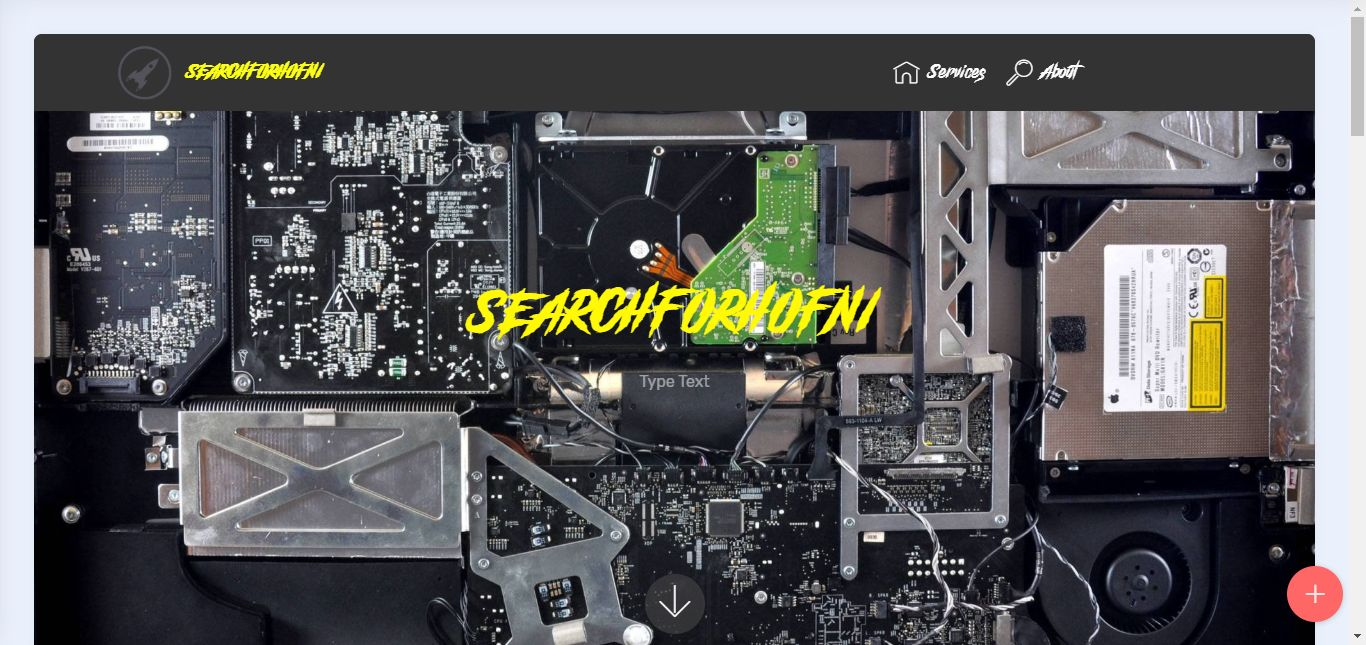
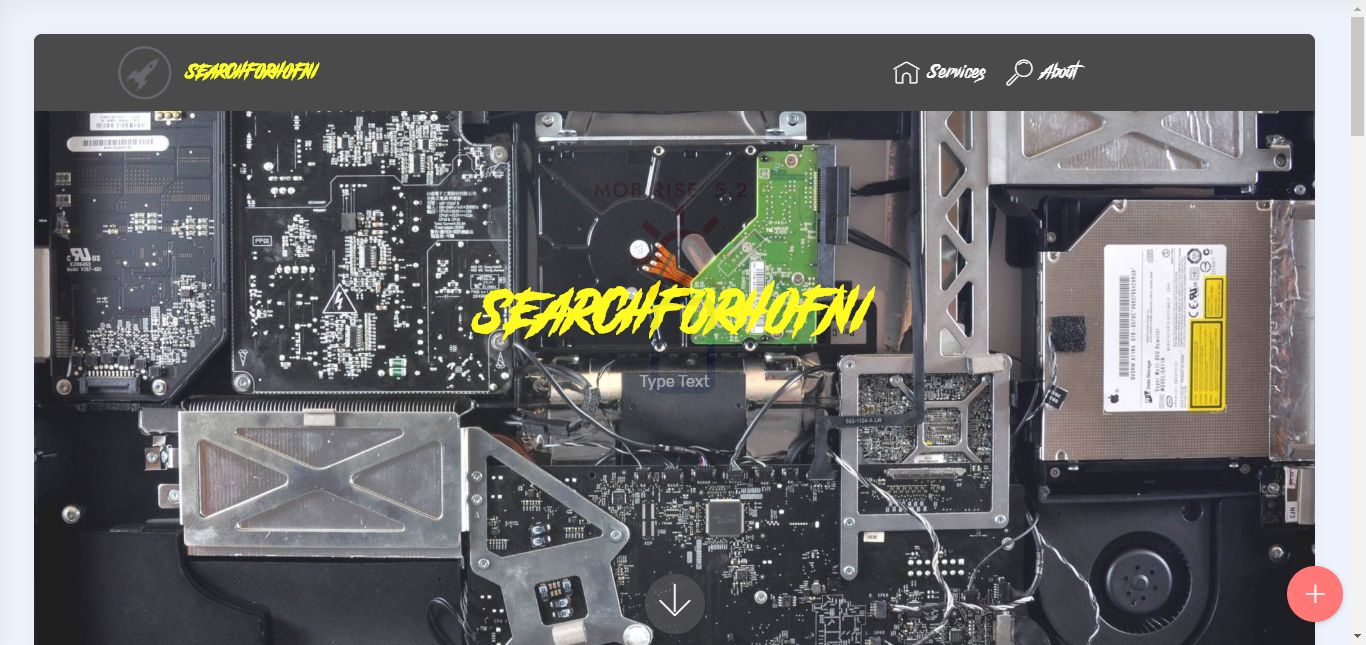
Add files via upload

diff --git a/searchforhofni.html b/searchforhofni.html
@@ -1,10 +1,10 @@
 <!DOCTYPE html>
 <html  >
 <head>
-  <!-- Site made with Mobirise Website Builder v4.12.4, https://mobirise.com -->
+  <!-- Site made with Mobirise Website Builder v5.2.0, https://mobirise.com -->
   <meta charset="UTF-8">
   <meta http-equiv="X-UA-Compatible" content="IE=edge">
-  <meta name="generator" content="Mobirise v4.12.4, mobirise.com">
+  <meta name="generator" content="Mobirise v5.2.0, mobirise.com">
   <meta name="viewport" content="width=device-width, initial-scale=1, minimum-scale=1">
   <link rel="shortcut icon" href="assets/images/mbr-1-122x122.png" type="image/x-icon">
   <meta name="description" content="Portfolio and Business site">
@@ -15,17 +15,21 @@
   <link rel="stylesheet" href="assets/bootstrap/css/bootstrap.min.css">
   <link rel="stylesheet" href="assets/bootstrap/css/bootstrap-grid.min.css">
   <link rel="stylesheet" href="assets/bootstrap/css/bootstrap-reboot.min.css">
-  <link rel="stylesheet" href="assets/socicon/css/styles.css">
   <link rel="stylesheet" href="assets/tether/tether.min.css">
-  <link rel="stylesheet" href="assets/as-pie-progress/css/progress.min.css">
   <link rel="stylesheet" href="assets/dropdown/css/style.css">
+  <link rel="stylesheet" href="assets/animatecss/animate.min.css">
+  <link rel="stylesheet" href="assets/as-pie-progress/css/progress.min.css">
+  <link rel="stylesheet" href="assets/socicon/css/styles.css">
   <link rel="stylesheet" href="assets/theme/css/style.css">
+  <link href="assets/fonts/style.css" rel="stylesheet">
   <link rel="preload" as="style" href="assets/mobirise/css/mbr-additional.css"><link rel="stylesheet" href="assets/mobirise/css/mbr-additional.css" type="text/css">
+  
   
   
   
 </head>
 <body>
+  
   <section class="menu cid-qTkzRZLJNu" once="menu" id="menu1-0">
 
     
@@ -66,7 +70,7 @@
     </nav>
 </section>
 
-<section class="engine"><a href="https://mobirise.info/b">create your own website</a></section><section class="cid-qTkA127IK8 mbr-fullscreen mbr-parallax-background" id="header2-1">
+<section class="cid-qTkA127IK8 mbr-fullscreen mbr-parallax-background" id="header2-1">
 
     
 
@@ -75,9 +79,9 @@
     <div class="container align-center">
         <div class="row justify-content-md-center">
             <div class="mbr-white col-md-10">
-                <h1 class="mbr-section-title mbr-bold pb-3 mbr-fonts-style display-2">SEARCHFORHOFNI<br><br></h1>
+                <h1 class="mbr-section-title mbr-bold pb-3 mbr-fonts-style display-2">SEARCHFORHOFNI</h1>
                 
-                <p class="mbr-text pb-3 mbr-fonts-style display-7">Hofni H Gideon &nbsp;better known as Searchforhofni .I'm a Computer Science student at the University of Namibia in Oshakati.I'm a Sole trader with a Computer repair business.<br><br>Do explore and Contact me.<br><br></p>
+                <p class="mbr-text pb-3 mbr-fonts-style display-7"></p>
                 
             </div>
         </div>
@@ -238,7 +242,7 @@
         <div class="media-container-row pt-5 mt-2">
             <div class="card p-3 align-center">
                 <div class="wrap">
-                    <div class="pie_progress progress1" role="progressbar" data-goal="45">
+                    <div class="pie_progress progress1" role="progressbar" data-goal="55">
                         <p class="pie_progress__number mbr-fonts-style display-5">27%</p>
                     </div>
                 </div> 
@@ -249,8 +253,8 @@
 
             <div class="card p-3 align-center">
                 <div class="wrap">
-                    <div class="pie_progress progress2" role="progressbar" data-goal="61">
-                        <p class="pie_progress__number mbr-fonts-style display-5">55%</p>
+                    <div class="pie_progress progress2" role="progressbar" data-goal="75">
+                        <p class="pie_progress__number mbr-fonts-style display-5">75%</p>
                     </div>
                 </div> 
                 <div class="mbr-crt-title pt-3">
@@ -366,21 +370,9 @@
             </div>
         </div>
     </div>
-</section>
-
-
-  <script src="assets/web/assets/jquery/jquery.min.js"></script>
-  <script src="assets/popper/popper.min.js"></script>
-  <script src="assets/bootstrap/js/bootstrap.min.js"></script>
-  <script src="assets/smoothscroll/smooth-scroll.js"></script>
-  <script src="assets/tether/tether.min.js"></script>
-  <script src="assets/touchswipe/jquery.touch-swipe.min.js"></script>
-  <script src="assets/parallax/jarallax.min.js"></script>
-  <script src="assets/as-pie-progress/jquery-as-pie-progress.min.js"></script>
-  <script src="assets/dropdown/js/nav-dropdown.js"></script>
-  <script src="assets/dropdown/js/navbar-dropdown.js"></script>
-  <script src="assets/theme/js/script.js"></script>
+</section><section style="background-color: #fff; font-family: -apple-system, BlinkMacSystemFont, 'Segoe UI', 'Roboto', 'Helvetica Neue', Arial, sans-serif; color:#aaa; font-size:12px; padding: 0; align-items: center; display: flex;"><a href="https://mobirise.site/y" style="flex: 1 1; height: 3rem; padding-left: 1rem;"></a><p style="flex: 0 0 auto; margin:0; padding-right:1rem;"><a href="https://mobirise.site/s" style="color:#aaa;">Website</a> was made with Mobirise web templates</p></section><script src="assets/web/assets/jquery/jquery.min.js"></script>  <script src="assets/popper/popper.min.js"></script>  <script src="assets/bootstrap/js/bootstrap.min.js"></script>  <script src="assets/tether/tether.min.js"></script>  <script src="assets/smoothscroll/smooth-scroll.js"></script>  <script src="assets/dropdown/js/nav-dropdown.js"></script>  <script src="assets/dropdown/js/navbar-dropdown.js"></script>  <script src="assets/touchswipe/jquery.touch-swipe.min.js"></script>  <script src="assets/viewportchecker/jquery.viewportchecker.js"></script>  <script src="assets/parallax/jarallax.min.js"></script>  <script src="assets/as-pie-progress/jquery-as-pie-progress.min.js"></script>  <script src="assets/theme/js/script.js"></script>  
   
   
-</body>
+  <input name="animation" type="hidden">
+  </body>
 </html>

diff --git a/README.md b/README.md
@@ -1,2 +1,1 @@
-# searchforhofni.github.io
-GitHub Pages
+# searchforsite
